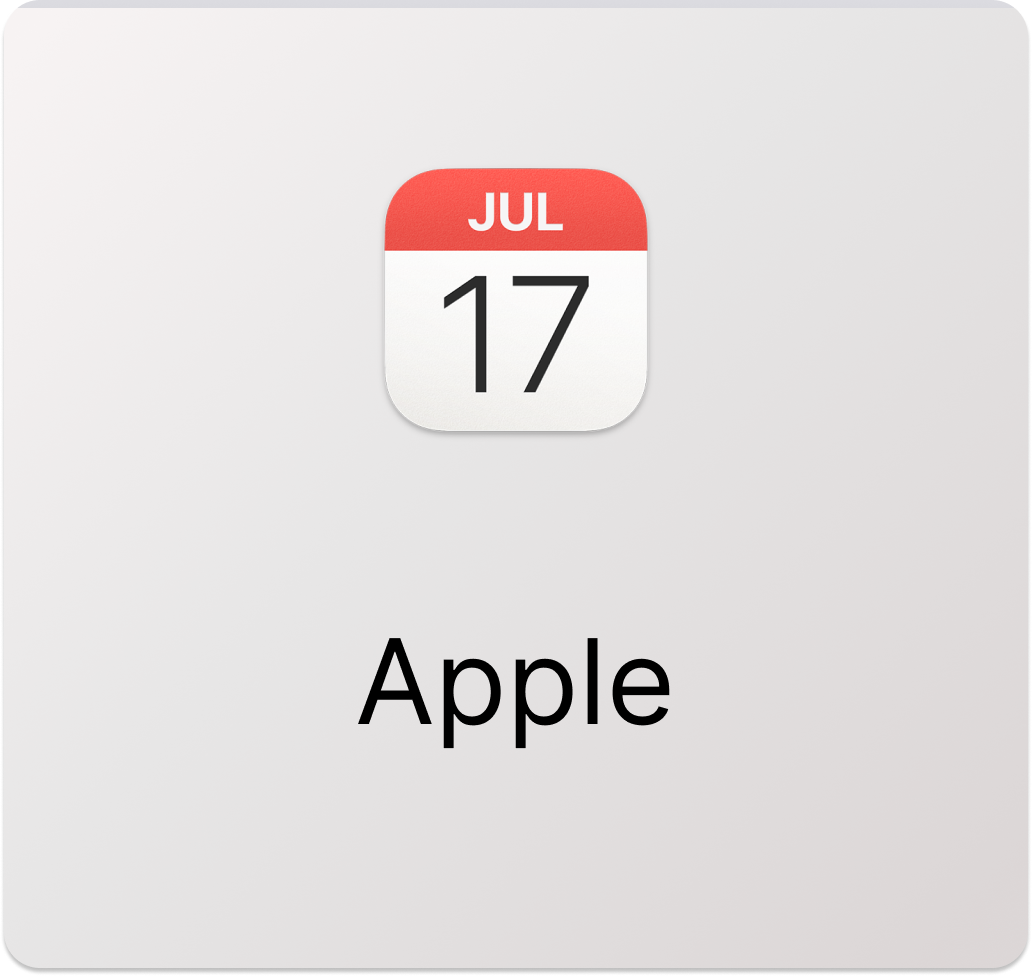
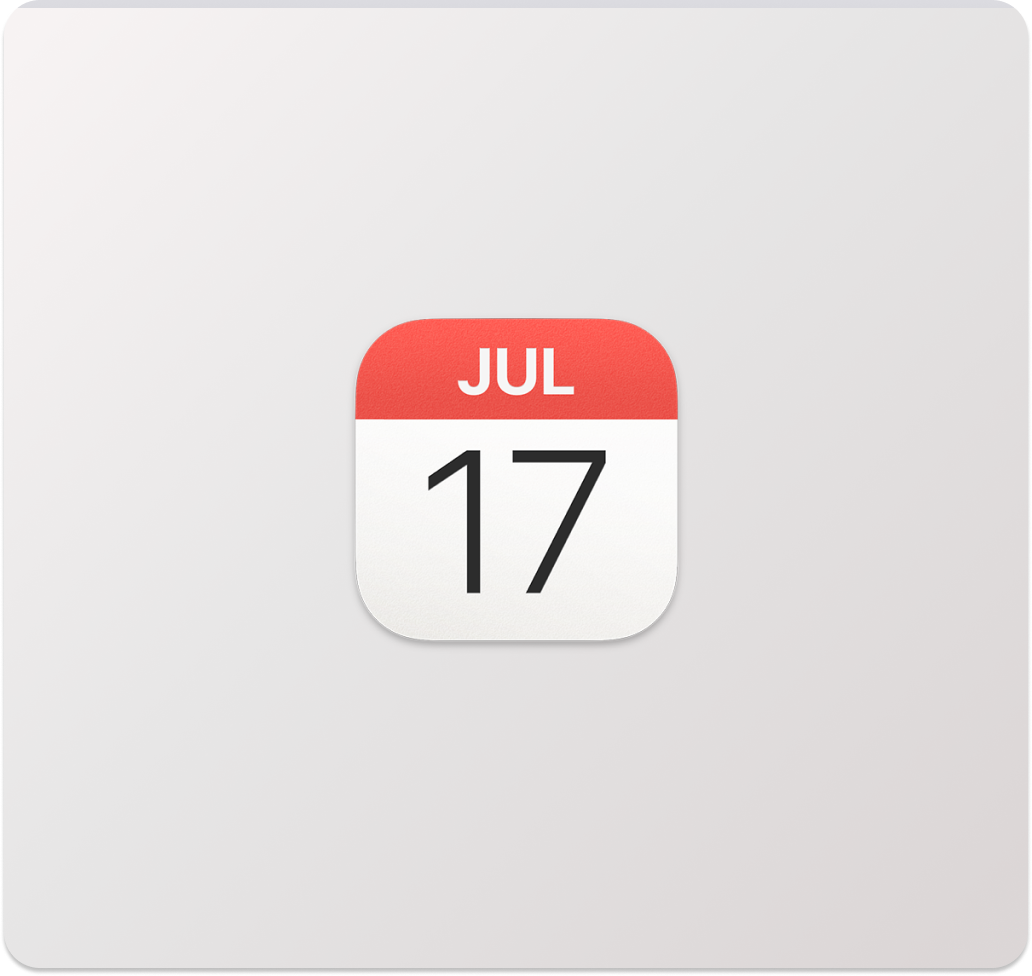
ui: better card view (#63)

diff --git a/oncall-schedules/calendar-sync-for-oncall/README.md b/oncall-schedules/calendar-sync-for-oncall/README.md
@@ -43,6 +43,37 @@ To export your on-call schedule:
 
 #### Works with Any Calendar
 
+<table data-view="cards">
+  <thead>
+    <tr>
+      <th></th>
+      <th></th>
+      <th data-hidden data-card-target data-type="content-ref"></th>
+      <th data-hidden data-card-cover data-type="files"></th>
+    </tr>
+  </thead>
+  <tbody>
+    <tr>
+      <td><strong>Google Calendar</strong></td>
+      <td>Example description 1.</td>
+      <td><a href="google-calendar-sync.md">google-calendar-sync.md</a></td>
+      <td><a href="../../.gitbook/assets/oncall/calendar-sync/Google Calendar tile.png">Google Calendar tile.png</a></td>
+    </tr>
+    <tr>
+      <td><strong>Apple Calendar</strong></td>
+      <td>Example description 1.</td>
+      <td><a href="apple-calendar-sync.md">apple-calendar-sync.md</a></td>
+      <td><a href="../../.gitbook/assets/oncall/calendar-sync/Apple Calendar tile.png">Apple Calendar tile.png</a></td>
+    </tr>
+    <tr>
+      <td><strong>Microsoft Outlook</strong></td>
+      <td>Example description 1.</td>
+      <td><a href="microsoft-outlook-sync.md">microsoft-outlook-sync.md</a></td>
+      <td><a href="../../.gitbook/assets/oncall/calendar-sync/Outlook Calendar tile.png">Google Calendar tile.png</a></td>
+    </tr>
+  </tbody>
+</table>
+
 <!-- <table data-view="cards"><thead><tr><th></th><th></th><th></th><th data-hidden data-card-cover data-type="files"></th><th data-hidden data-card-target data-type="content-ref"></th></tr></thead><tbody><tr><td>Linear</td><td>Connect with Linear to create issues about incidents</td><td></td><td><a href="../../.gitbook/assets/oncall/calendar-sync/Google Calendar tile.png">Google Calendar tile.png</a></td><td><a href="google-calendar-sync.md">google-calendar-sync.md</a></td></tr><tr><td>Google Calendar</td><td></td><td><a href="../../.gitbook/assets/oncall/calendar-sync/Apple Calendar tile.png">Apple Calendar tile.png</a></td><td><a href="apple-calendar-sync.md">apple-calendar-sync.md</a></td></tr><tr><td>Apple Calendar</td><td></td><td><a href="../../.gitbook/assets/oncall/calendar-sync/Outlook Calendar tile.png">Outlook Calendar tile.png</a></td><td><a href="microsoft-outlook-sync.md">microsoft-outlook-sync.md</a></td></tr></tbody></table> -->
 
 The Spike on-call calendar link follows the iCalendar (Webcal) standard.
